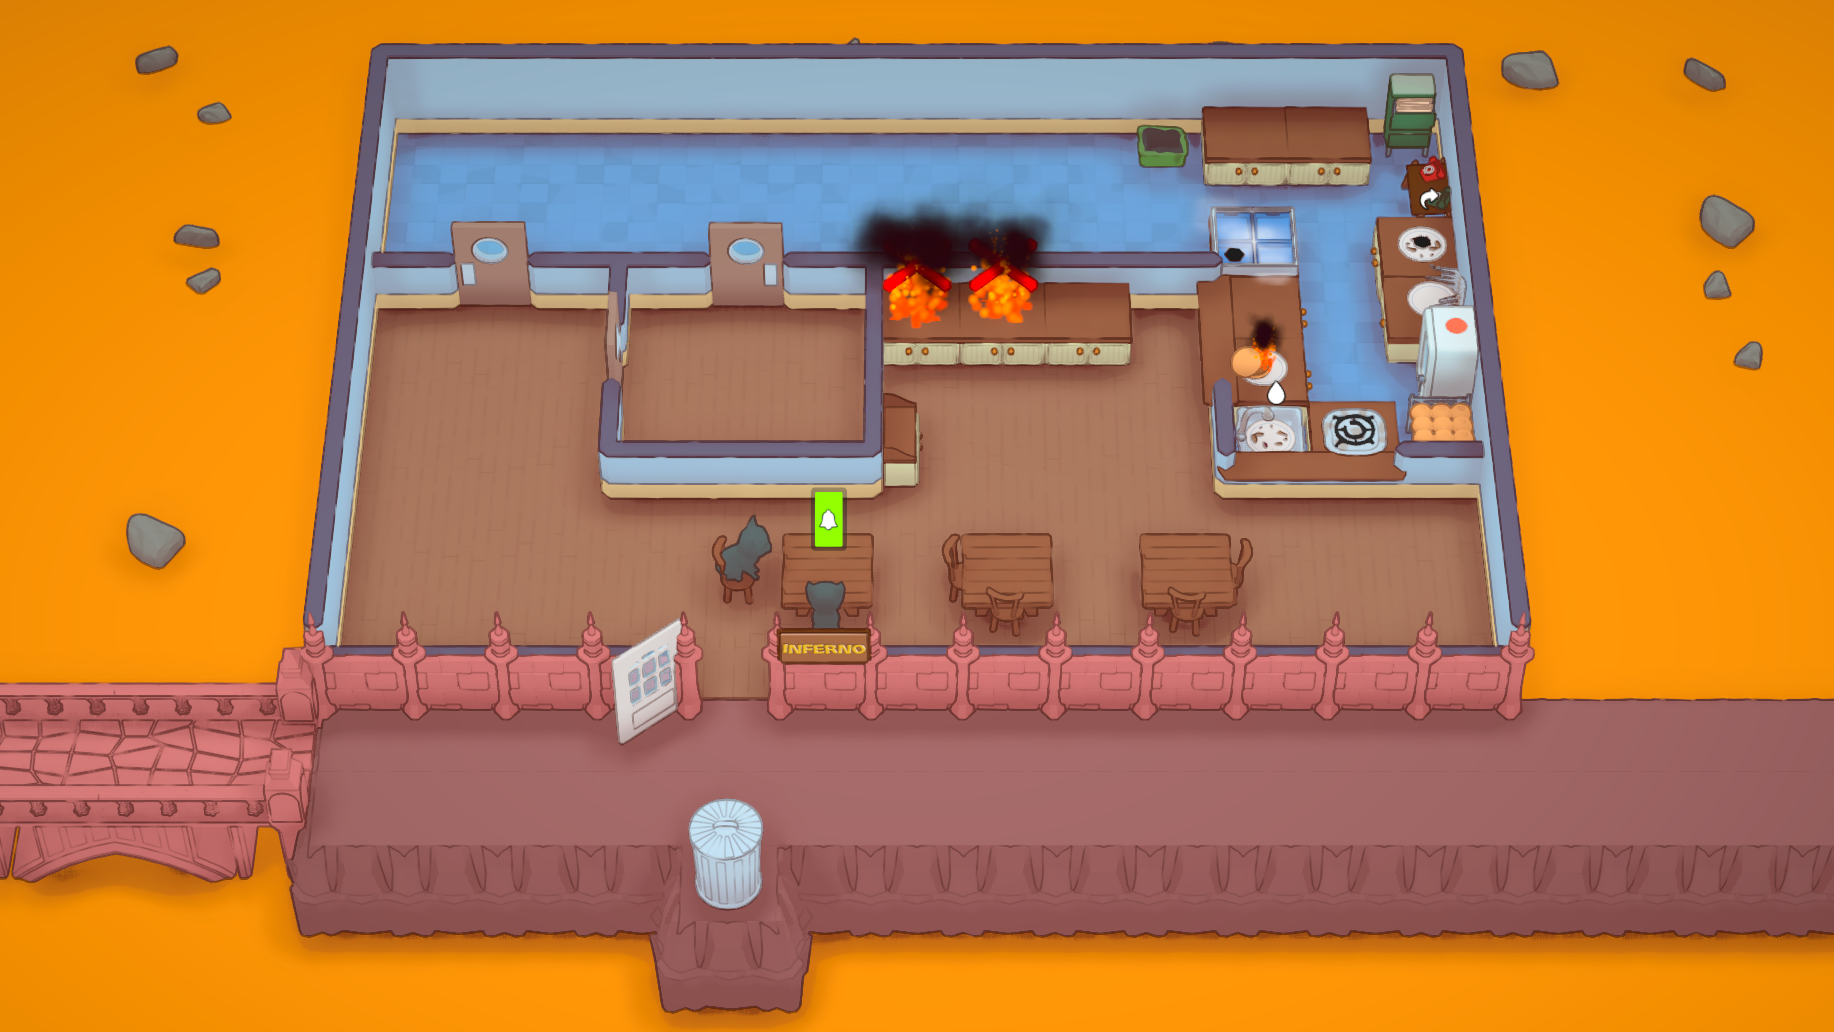
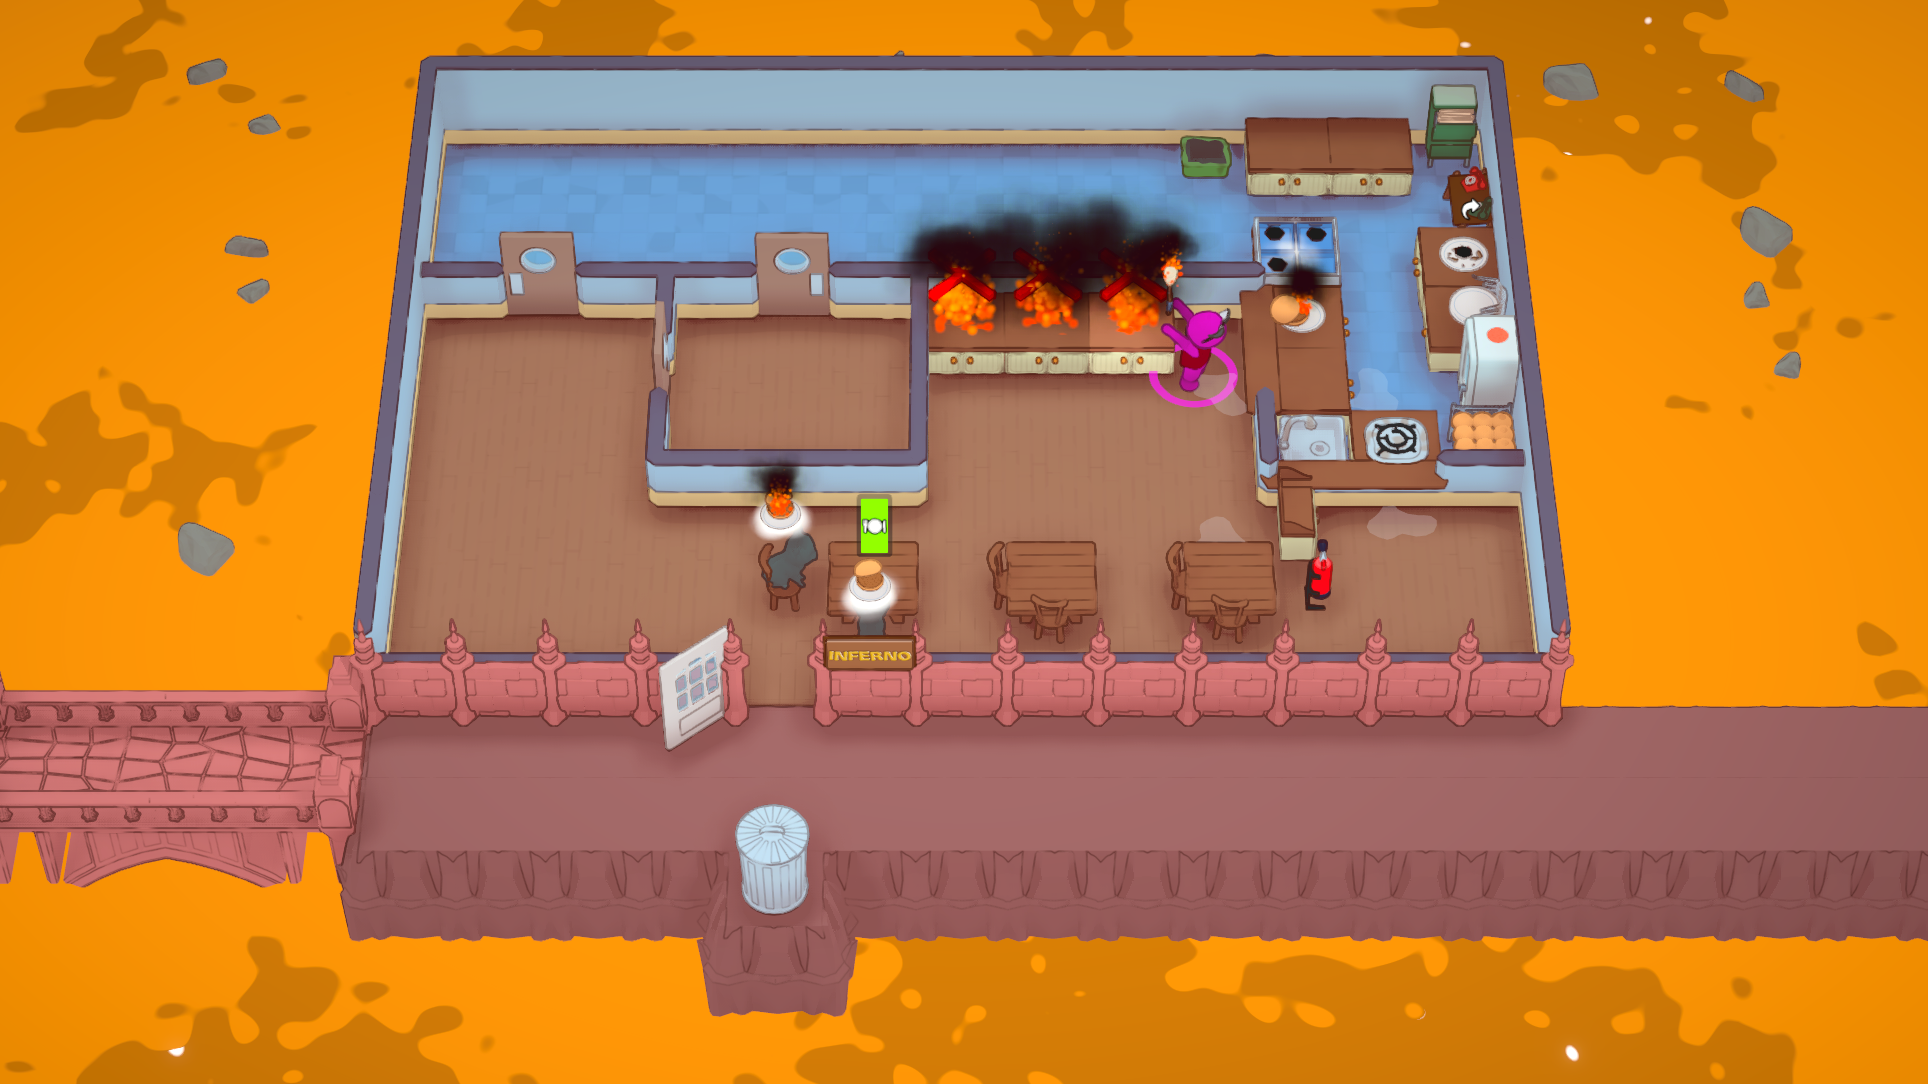
Changed Inferno Ground material. Removed debug logging.

diff --git a/Patches/ItemGroupView_Patch.cs b/Patches/ItemGroupView_Patch.cs
@@ -26,37 +26,4 @@ namespace KitchenInferno.Patches
             });
         }
     }
-
-    //[HarmonyPatch]
-    //static class ItemView_Patch
-    //{
-    //    [HarmonyPatch(typeof(ItemView), "UpdateData")]
-    //    [HarmonyPostfix]
-    //    static void UpdateData_Postfix(ref ItemView __instance, ItemView.ViewData view_data)
-    //    {
-    //        if (__instance.gameObject.transform.Find("Fire") != null)
-    //            return;
-
-    //        ItemList.ItemComponentEnumerator enumerator = view_data.Components.GetEnumerator();
-
-    //        int fireItemID = Main.CustomFireItem.GameDataObject?.ID ?? 0;
-    //        GameObject fireItemPrefab = Main.CustomFireItem.GameDataObject?.Prefab?.transform.Find("Fire Item Template")?.gameObject;
-    //        if (fireItemID == 0 || fireItemPrefab == null)
-    //        {
-    //            return;
-    //        }
-
-    //        while (enumerator.MoveNext())
-    //        {
-    //            Main.LogInfo($"{enumerator.Current} ---- {fireItemID}");
-    //            if (enumerator.Current == fireItemID)
-    //            {
-    //                GameObject fireInstance = GameObject.Instantiate(fireItemPrefab);
-    //                fireInstance.name = "Fire";
-    //                fireInstance.transform.SetParent(__instance.gameObject.transform, false);
-    //                return;
-    //            }
-    //        }
-    //    }
-    //}
 }

diff --git a/Main.cs b/Main.cs
@@ -26,7 +26,7 @@ namespace KitchenInferno
         // Mod Version must follow semver notation e.g. "1.2.3"
         public const string MOD_GUID = "IcedMilo.PlateUp.Inferno";
         public const string MOD_NAME = "Inferno";
-        public const string MOD_VERSION = "0.4.1";
+        public const string MOD_VERSION = "0.4.2";
         public const string MOD_AUTHOR = "IcedMilo";
         public const string MOD_GAMEVERSION = ">=1.1.5";
         // Game version this mod is designed for in semver
@@ -94,6 +94,11 @@ namespace KitchenInferno
             LogInfo("Done loading game data.");
         }
 
+        private void AddMaterials()
+        {
+            AddCustomMaterial<InfernoSurfaceMaterial>();
+        }
+
         protected override void OnUpdate()
         {
         }
@@ -113,6 +118,7 @@ namespace KitchenInferno
             LogInfo("Done loading asset bundle.");
 
             // Register custom GDOs
+            AddMaterials();
             AddGameData();
 
             PrefManager = new PreferenceSystemManager(MOD_GUID, MOD_NAME);

diff --git a/Customs/InfernoSetting/InfernoSurfaceMaterial.cs b/Customs/InfernoSetting/InfernoSurfaceMaterial.cs
@@ -1,0 +1,26 @@
+using KitchenLib.Customs;
+using System;
+using System.Collections.Generic;
+using System.Linq;
+using System.Text;
+using System.Threading.Tasks;
+using UnityEngine;
+
+namespace KitchenInferno.Customs.InfernoSetting
+{
+    public class InfernoSurfaceMaterial : CustomBaseMaterial
+    {
+        public override void ConvertMaterial(out Material material)
+        {
+            Material infernoSurface = new Material(Shader.Find("Lake Surface"));
+            infernoSurface.SetColor("_Color0", new Color(0.795657754f, 0.517066061f, 0.220359266f));
+            infernoSurface.SetColor("_Color1", new Color(0.477f, 0.31f, 0.132f, 0.5f));
+            infernoSurface.SetFloat("_AlphaCutoff", 0.5f);
+            infernoSurface.SetFloat("_TimeScale", 0.008f);
+            infernoSurface.SetFloat("_Scale", 0.0008f);
+            infernoSurface.name = "Inferno Surface";
+
+            material = infernoSurface;
+        }
+    }
+}

diff --git a/Customs/InfernoSetting/LavaGround.cs b/Customs/InfernoSetting/LavaGround.cs
@@ -13,7 +13,7 @@ namespace KitchenInferno.Customs.InfernoSetting
         public override GameObject Prefab => Main.Bundle.LoadAsset<GameObject>("Lava Ground");
         public override void SetupPrefab(GameObject prefab)
         {
-            Material[] matArr = new Material[] { MaterialUtils.GetCustomMaterial("Inferno Lava") };
+            Material[] matArr = new Material[] { MaterialUtils.GetCustomMaterial("Inferno Surface") };
             MaterialUtils.ApplyMaterial(prefab, "Lava Ground", matArr);
         }
     }

diff --git a/ConstantWildfires.cs b/ConstantWildfires.cs
@@ -64,8 +64,6 @@ namespace KitchenInferno
             float minDayDelay = ((1 - DAY_FACTOR_LIMIT) * Mathf.Exp(-DAY_DECAY_RATE * day) + DAY_FACTOR_LIMIT) * MINIMUM_INTERVAL;
             float additionalDelay = Mathf.Pow(Random.value, PLAYER_FACTOR_EFFECT * (players - 1) + 1f) * INTERVAL_RANGE;
 
-            Main.LogWarning($"{minDayDelay} + {additionalDelay}");
-
             timeTracker.LastTime = totalTime;
             timeTracker.Delay = minDayDelay + additionalDelay;
 

diff --git a/MarkOrderedItemsOnFire.cs b/MarkOrderedItemsOnFire.cs
@@ -54,7 +54,6 @@ namespace KitchenInferno
                     CWaitingForItem orderItem = orderItems[j];
                     if (!orderItems[j].IsSide && (Random.value < chance || chance == 1f))
                     {
-                        Main.LogError("Set fire");
                         orderItem.Reward = Mathf.CeilToInt(1.4f * orderItem.Reward);
                         Set(orderItem.Item, default(CItemOnFire));
                     }

diff --git a/Customs/BurntFoodUnlock.cs b/Customs/BurntFoodUnlock.cs
@@ -19,7 +19,6 @@ namespace KitchenInferno.Customs
         {
             new Dish.MenuItem
             {
-                //Item = GDOUtils.GetCastedGDO<Item, BurntCube>(),
                 Item = (Item)GDOUtils.GetExistingGDO(ItemReferences.BurnedFood),
                 Phase = MenuPhase.Dessert,
                 Weight = 1

diff --git a/ApplyOrderFramesDelay.cs b/ApplyOrderFramesDelay.cs
@@ -34,7 +34,6 @@ namespace KitchenInferno
                     }
                     continue;
                 }
-                Main.LogInfo(framesDelay.Remaining);
                 framesDelay.Remaining -= 1;
                 if (framesDelay.Remaining <= 0)
                 {
